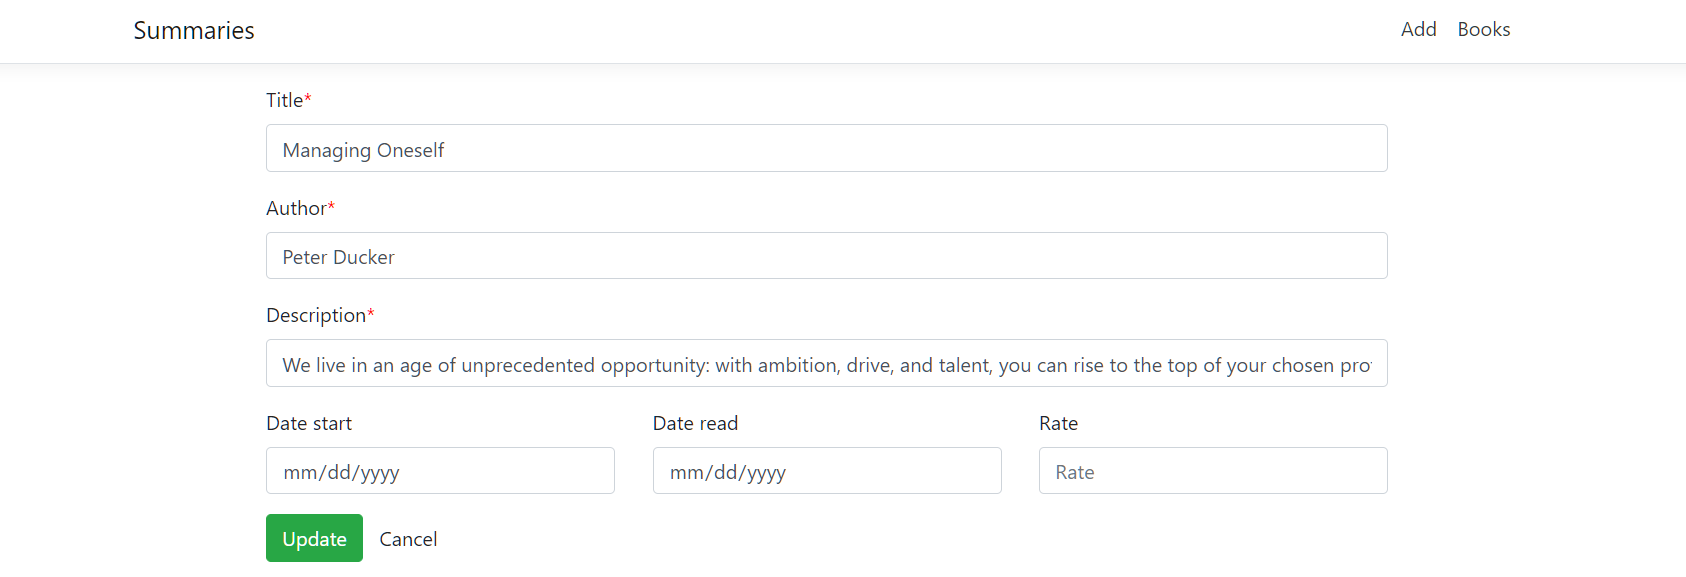
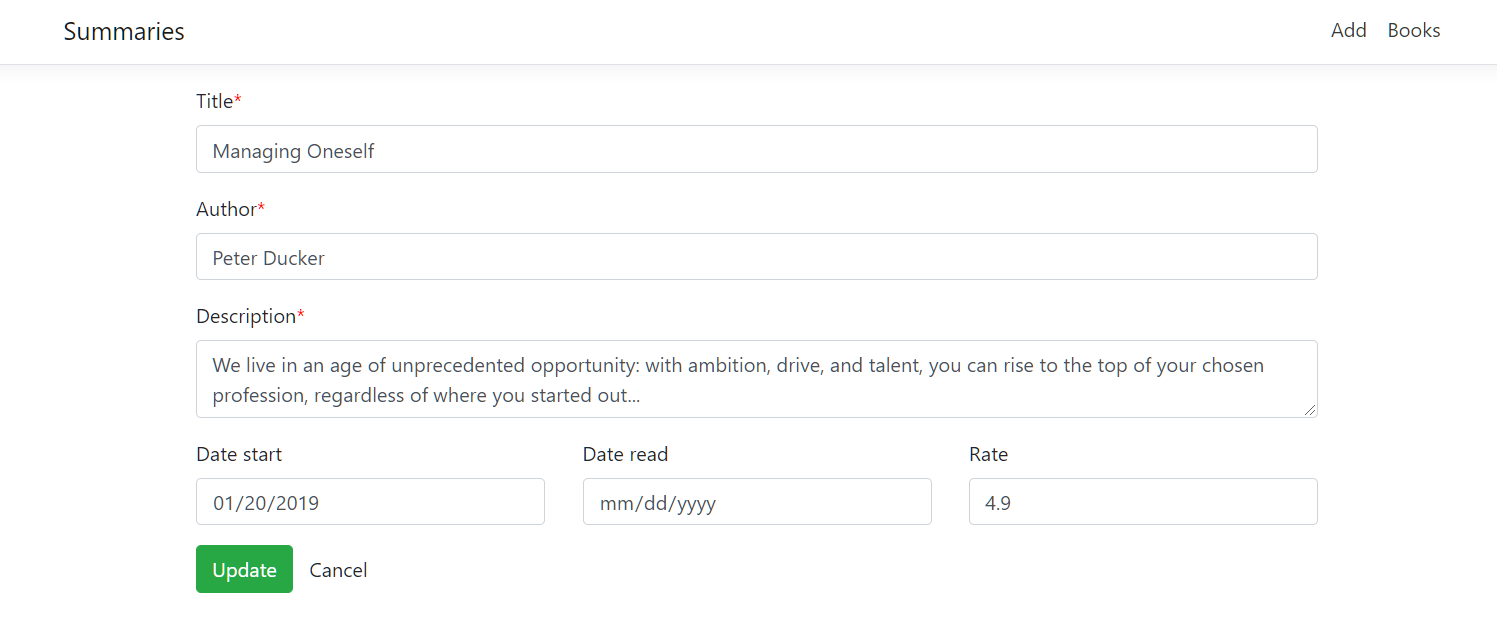
update files

diff --git a/README.md b/README.md
@@ -1035,6 +1035,11 @@ Modify the ts file to Add the create functionality in our Angular app - **Web AP
 	
     inside ```gOnInit```, we are going to get the single book and construct our FormGroup. Here, we are going to first, get the book data - ```this.book = data;```; and for the book, create a book variable before the constructor; a book, that is of that any, or you can write off that book - ```book: any;```  
     And now, create ```UpdateBookForm```and import validation libraries.  
+	Add a format for DateStart to be able to displayed; add the method at the end - ```formatDate(date: Date)```.  
+	Lastly add functionality for the Update button; implement the ```onSubmit``` method. 
+	```
+	
+	```
 	```TypeScript
 	import { Component, OnInit } from "@angular/core";
 	import { BookService } from "src/app/services/book.service";
@@ -1070,16 +1075,30 @@ Modify the ts file to Add the create functionality in our Angular app - **Web AP
 			  data.description,
 			  Validators.compose([Validators.required, Validators.minLength(30)])
 			],
-			data: [data.rate],
-			dateStart: [data.dateStart],
-			dateRead: [data.dateRead]
+			rate: [data.rate],
+			dateStart: [this.formatDate(data.dateStart)],
+			dateRead: [this.formatDate(data.dateRead)],
 		  });
+		});
+	  }
+	  //create a method to change the format of dateStart
+	  formatDate(date: Date) {
+		if (date) {
+		  return new Date(date).toISOString().substring(0, 10);
+		}
+	  }
+	  onSubmit() {
+		this.service.updateBook(this.updateBookForm.value).subscribe(data => {
+		  this.router.navigate(["/books"]);
 		});
 	  }
 	}
 	```  
+	Update the HTML file - for description change the input to a textArea tag.
 	Run the project and go to Books and pick a book by clicking on 'Show'; now click on 'Update' to update this book:  
 	![Update a book](images/update-book.png)  
+	
+	
 
 
 
